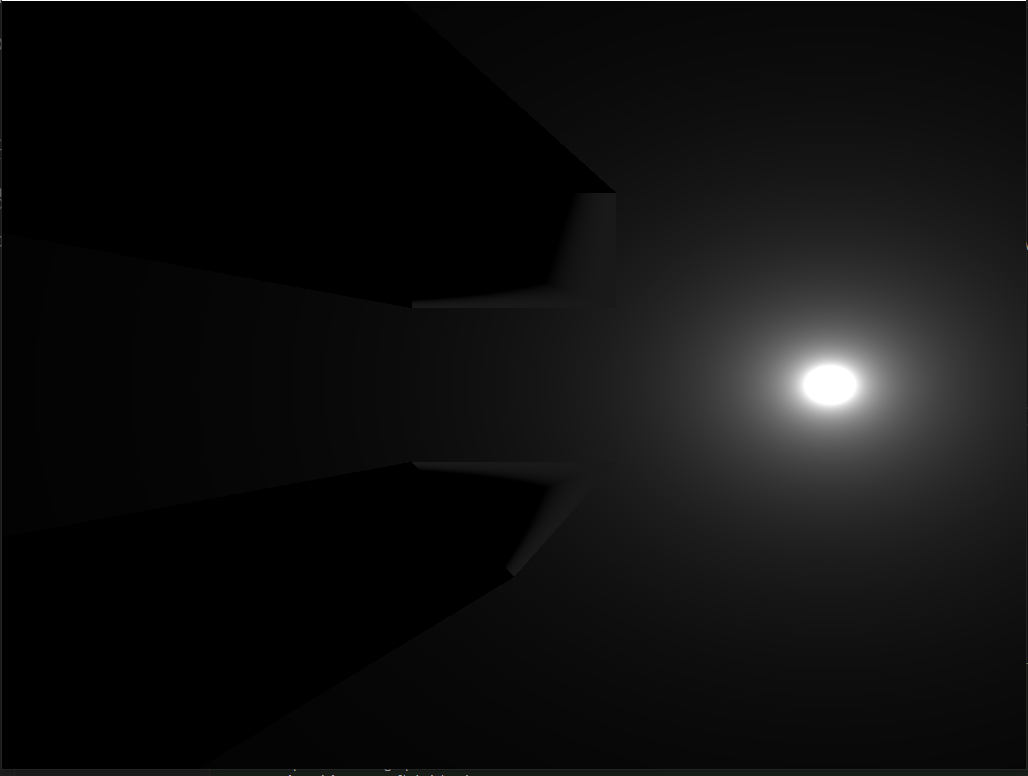
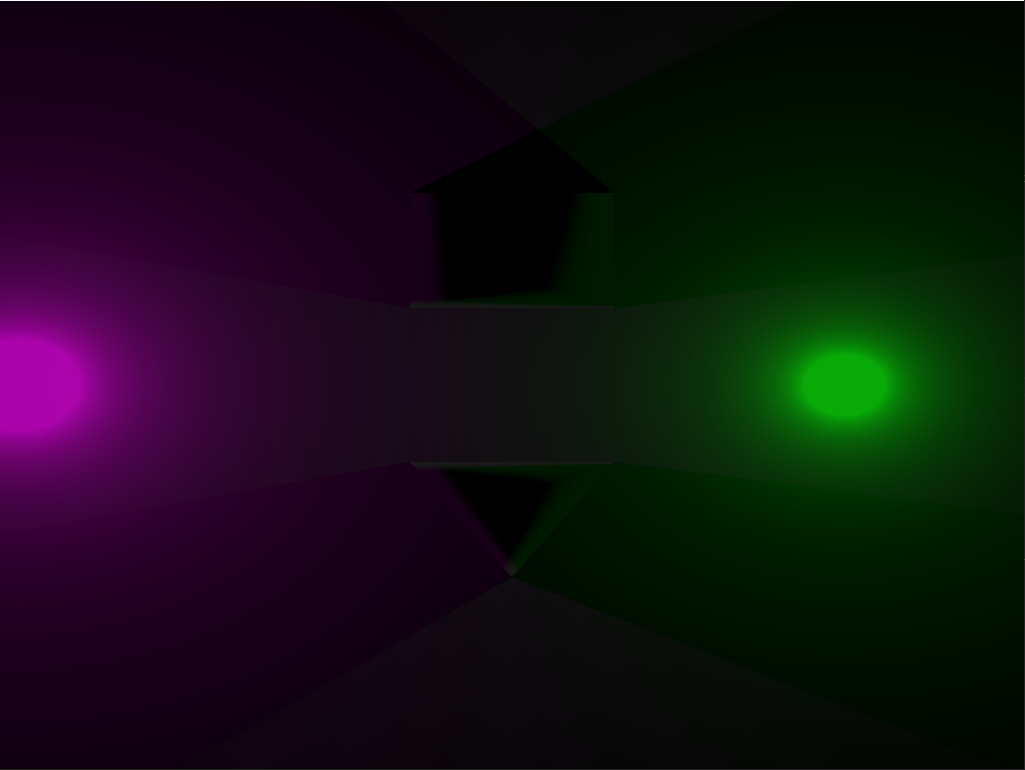
yeet

diff --git a/src/engine/renderer.rs b/src/engine/renderer.rs
@@ -21,7 +21,7 @@ glium::implement_vertex!(Vert, position);
 
 
 pub fn main_loop<F>(mut ecs: ecs::ECS, mut each_frame: F) 
-    where F: FnMut(&mut ecs::ECS, f32) -> ()
+    where F: FnMut(&mut ecs::ECS, &mut glium::glutin::EventsLoop, f32) -> bool
 {
     let mut events_loop = glium::glutin::EventsLoop::new();
 
@@ -88,7 +88,7 @@ pub fn main_loop<F>(mut ecs: ecs::ECS, mut each_frame: F)
 
     // Light getter
     let (ecs_light_position_sender, light_position_reciever) = mpsc::channel::<Vec<Arc<Mutex<Option<Vector2>>>>>();
-    let (ecs_light_sender, light_receiver) = mpsc::channel::<Vec<Arc<Mutex<Option<f32>>>>>();
+    let (ecs_light_sender, light_receiver) = mpsc::channel::<Vec<Arc<Mutex<Option<(f32, f32, f32, f32)>>>>>();
     let (light_positions_sender, light_positions_reciever) = mpsc::channel();
     let (lights_sender, lights_reciever) = mpsc::channel();
     thread::spawn(move || {
@@ -106,7 +106,7 @@ pub fn main_loop<F>(mut ecs: ecs::ECS, mut each_frame: F)
                 if let Some(light) = &*light {
                     if let Some(position) = &*position {
                         light_positions.push([position.x, position.y]);
-                        lights.push(*light);
+                        lights.push([light.0, light.1, light.2, light.3]);
                     }
                 }
             }
@@ -122,8 +122,6 @@ pub fn main_loop<F>(mut ecs: ecs::ECS, mut each_frame: F)
 
     let mut time = None;
 
-    let mut t: f32 = 0.0;
-
     // Main Loop
     while running {
         let mut delta_time = 0.0;
@@ -134,7 +132,7 @@ pub fn main_loop<F>(mut ecs: ecs::ECS, mut each_frame: F)
             print!("\r{:?}             ", Instant::now().duration_since(time));
         }
 
-        each_frame(&mut ecs, delta_time);
+        running = each_frame(&mut ecs, &mut events_loop, delta_time);
 
         time = Some(Instant::now());
 
@@ -150,7 +148,7 @@ pub fn main_loop<F>(mut ecs: ecs::ECS, mut each_frame: F)
         let polygons = polygon_position_reciever.recv().unwrap();
         let polygon_lengths = polygon_lengths_reciever.recv().unwrap();
         let light_positions = light_positions_reciever.recv().unwrap();
-        let light_strengths = lights_reciever.recv().unwrap();
+        let lights = lights_reciever.recv().unwrap();
 
         //println!("{:?}\n{:?}\n", polygons, polygon_lengths);
         //println!("{:?}", lights);
@@ -158,7 +156,7 @@ pub fn main_loop<F>(mut ecs: ecs::ECS, mut each_frame: F)
         let object_lengths = glium::buffer::Buffer::<[i32]>::new(&display, &polygon_lengths, glium::buffer::BufferType::ArrayBuffer, glium::buffer::BufferMode::Default).unwrap();
         let object_positions = glium::buffer::Buffer::<[[f32; 2]]>::new(&display, &polygons, glium::buffer::BufferType::ArrayBuffer, glium::buffer::BufferMode::Default).unwrap();
         let light_positions = glium::buffer::Buffer::<[[f32; 2]]>::new(&display, &light_positions, glium::buffer::BufferType::ArrayBuffer, glium::buffer::BufferMode::Default).unwrap();
-        let light_strengths = glium::buffer::Buffer::<[f32]>::new(&display, &light_strengths, glium::buffer::BufferType::ArrayBuffer, glium::buffer::BufferMode::Default).unwrap();
+        let lights = glium::buffer::Buffer::<[[f32; 4]]>::new(&display, &lights, glium::buffer::BufferType::ArrayBuffer, glium::buffer::BufferMode::Default).unwrap();
 
 
         let uniforms = uniform!{
@@ -166,7 +164,7 @@ pub fn main_loop<F>(mut ecs: ecs::ECS, mut each_frame: F)
             object_lengths: &object_lengths,
             object_positions: &object_positions,
             light_positions: &light_positions,
-            light_strengths: &light_strengths,
+            light_strengths: &lights,
         };
 
         frame.draw(&vertex_buffer, &index_buffer, 

diff --git a/src/main.rs b/src/main.rs
@@ -1,6 +1,9 @@
 #[macro_use]
 pub extern crate glium;
 
+use glium::glutin::Event;
+use glium::glutin::WindowEvent;
+
 #[macro_use]
 mod engine;
 mod entities;
@@ -12,14 +15,40 @@ fn main() {
 
     ecs.push(None, None, None, None, Some(vec![Vector2::new(-0.2, 0.2), Vector2::new(-0.2, 0.5), Vector2::new(0.2, 0.5), Vector2::new(0.2, 0.2)]));
     ecs.push(None, None, None, None, Some(vec![Vector2::new(-0.2, -0.2), Vector2::new(0.0, -0.5), Vector2::new(0.2, -0.2)]));
-    let light = ecs.push(Some(Vector2::new(0.0, 0.0)), None, Some(1.0), None, None);
+    let light = ecs.push(Some(Vector2::new(0.0, 0.0)), None, Some((1.5, 1.0, 0.0, 1.0)), None, None);
+    let light2 = ecs.push(Some(Vector2::new(0.0, 0.0)), None, Some((1.0, 0.0, 1.0, 0.0)), None, None);
 
     let mut time: f32 = 0.0;
 
-    engine::renderer::main_loop(ecs, |ecs, delta_time| {
+    engine::renderer::main_loop(ecs, |ecs, events_loop, delta_time| {
+        let mut running = true;
+
+        // Event handleing
+
+        events_loop.poll_events(|event| {
+            match event {
+                Event::WindowEvent {event, ..} => {
+                    match event {
+                        WindowEvent::CloseRequested => {
+                            running = false;
+                        },
+                        _ => (),
+                    }
+                },
+                _ => (),
+            }
+        });
+
+
+
+        // Game logic
+
         position!(ecs, light).x = time.sin();
+        position!(ecs, light2).x = (time + 2.0).sin();
 
 
         time += delta_time;
+
+        running
     });
 }

diff --git a/src/engine/ecs.rs b/src/engine/ecs.rs
@@ -53,7 +53,7 @@ pub struct ECS {
     pub polygon: Vec<Arc<Mutex<Option<Vec<Vector2>>>>>,
     pub position: Vec<Arc<Mutex<Option<Vector2>>>>,
     pub rotation: Vec<Arc<Mutex<Option<f32>>>>,
-    pub light: Vec<Arc<Mutex<Option<f32>>>>,
+    pub light: Vec<Arc<Mutex<Option<(f32, f32, f32, f32)>>>>,
     pub velocity: Vec<Arc<Mutex<Option<Vector2>>>>,
     gen: Vec<Gen>,
     last: Option<usize>,
@@ -76,7 +76,7 @@ impl ECS {
 
     pub fn push(&mut self, position: Option<Vector2>, 
         rotation: Option<f32>, 
-        light: Option<f32>, 
+        light: Option<(f32, f32, f32, f32)>, 
         velocity: Option<Vector2>, 
         polygon: Option<Vec<Vector2>>) -> ID 
         {
